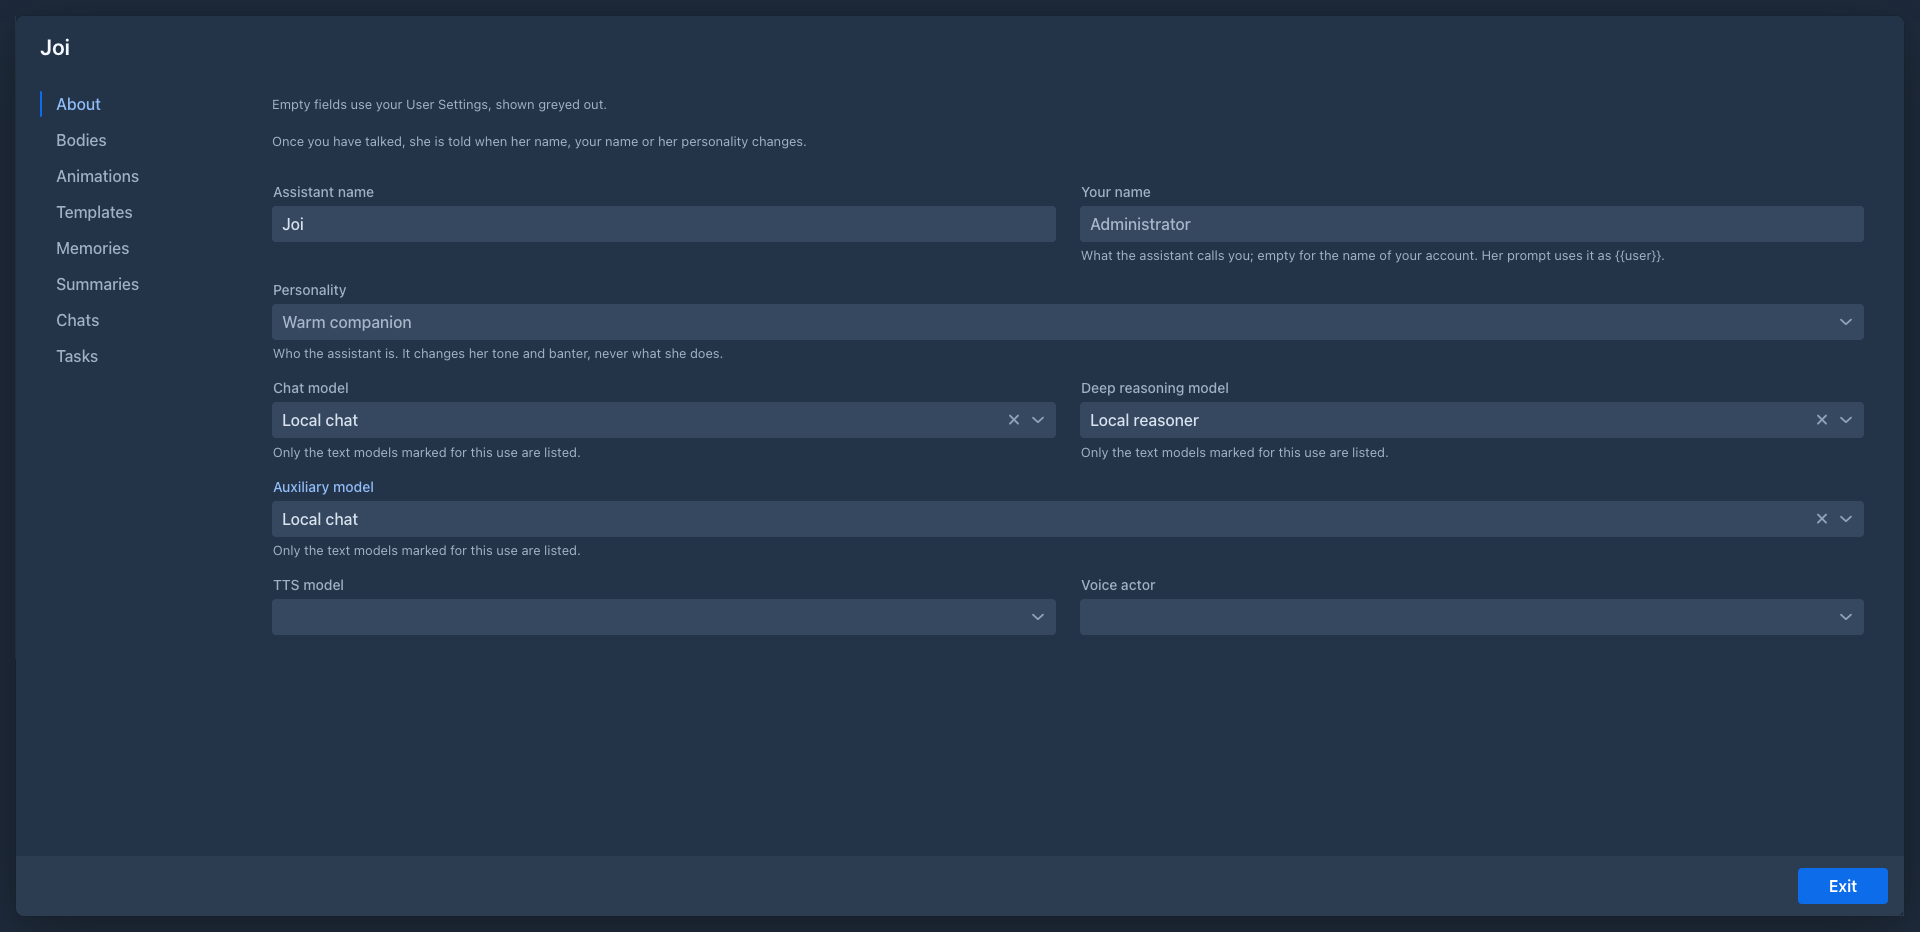
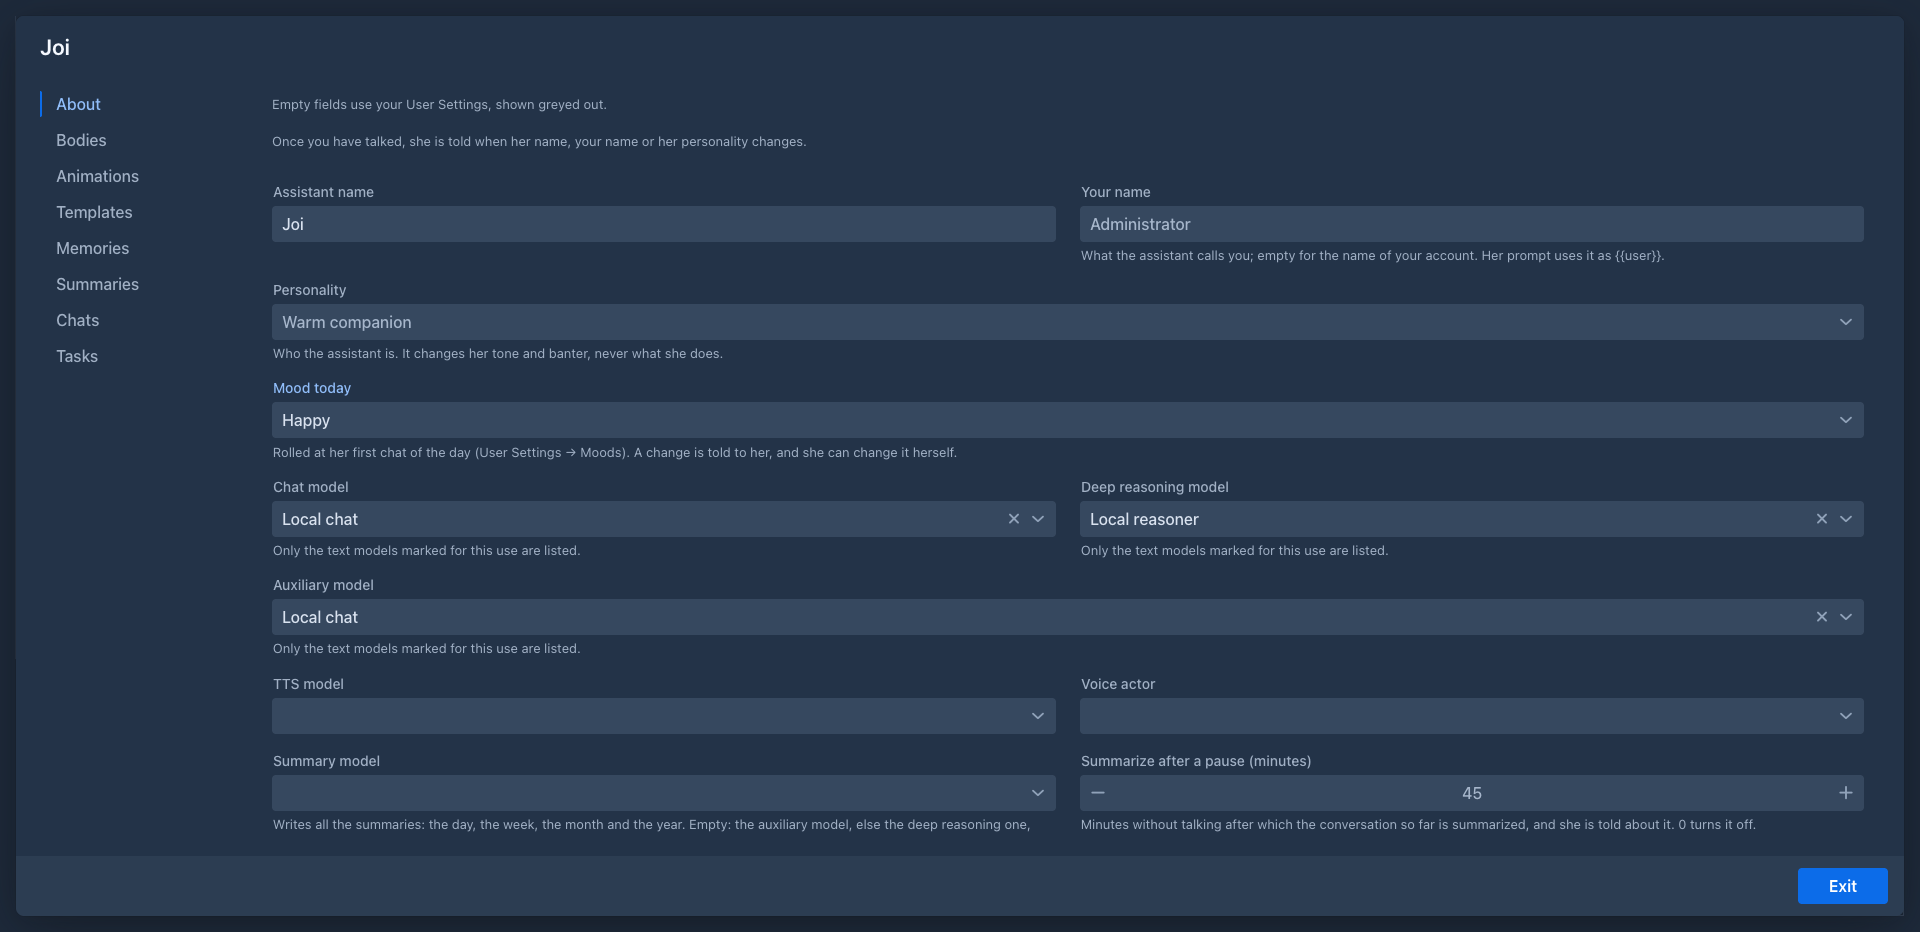
Screenshots of moods: the mood dialog with its face, Mood today in her About tab; the dialog's empty choices show the built-in face

diff --git a/joi-server/src/main/java/com/github/enerccio/joi/ui/dialogs/MoodDialog.java b/joi-server/src/main/java/com/github/enerccio/joi/ui/dialogs/MoodDialog.java
@@ -121,9 +121,11 @@ public class MoodDialog extends Dialog {
         expressions.add(MoodFace.NONE);
         expressions.addAll(AnimationFace.EXPRESSIONS);
         expressionSelect.setItems(expressions);
-        expressionSelect.setItemLabelGenerator(this::expressionText);
+        // the empty choice shows what the mood has without the user's setting
+        String builtInExpression = face.expression() == null ? MoodFace.NONE : face.expression();
+        expressionSelect.setItemLabelGenerator(v -> expressionText(v == null ? builtInExpression : v));
         expressionSelect.setEmptySelectionAllowed(true);
-        expressionSelect.setEmptySelectionCaption(expressionText(face.expression() == null ? MoodFace.NONE : face.expression()));
+        expressionSelect.setEmptySelectionCaption(expressionText(builtInExpression));
         expressionSelect.setValue(own.getExpression());
 
         strengthField = new NumberField(loc.getValue(J_L.LABEL_MOOD_EXPRESSION_STRENGTH));
@@ -140,9 +142,10 @@ public class MoodDialog extends Dialog {
         eyes.add(MoodFace.OPEN);
         eyes.addAll(MoodFace.EYES);
         eyesSelect.setItems(eyes);
-        eyesSelect.setItemLabelGenerator(this::eyesText);
+        String builtInEyes = face.eyes() == null ? MoodFace.OPEN : face.eyes();
+        eyesSelect.setItemLabelGenerator(v -> eyesText(v == null ? builtInEyes : v));
         eyesSelect.setEmptySelectionAllowed(true);
-        eyesSelect.setEmptySelectionCaption(eyesText(face.eyes() == null ? MoodFace.OPEN : face.eyes()));
+        eyesSelect.setEmptySelectionCaption(eyesText(builtInEyes));
         eyesSelect.setValue(own.getEyes());
 
         HorizontalLayout faceRow = new HorizontalLayout(expressionSelect, strengthField, eyesSelect);

diff --git a/screenshots/bin/list-images.py b/screenshots/bin/list-images.py
@@ -5,7 +5,7 @@ root = os.path.join(os.path.dirname(os.path.abspath(__file__)), '..')
 repo = os.path.join(root, '..')
 # the state a flow runs on: a chain flow starts from the step before it (bin/chain.txt), the shooting flows as bin/shoot-all.sh says
 state = {'shoot-workspace': 'any step from 01-admin (the last one)', 'node-first-start': '01-admin, a node that was never started',
-         'shoot-settings': 'any step from 07-body (the last one)', 'shoot-joi': 'any step from 07-body (the last one)',
+         'shoot-settings': 'any step from 07-body (the last one)', 'shoot-joi': 'any step from 07-body (the last one)', 'shoot-moods': 'any step from 07-body (the last one)',
          'shoot-model': 'any step from 07-body (the last one)', 'node-chat': 'step 09-conversation, the fake model, a node that was never started'}
 prev = '00-empty'
 for line in open(os.path.join(root, 'bin', 'chain.txt'), encoding='utf-8'):

diff --git a/screenshots/SCREENSHOTS.md b/screenshots/SCREENSHOTS.md
@@ -163,7 +163,7 @@ are taken, with the node's own commands, never the display.
 | `body-dialog.png` | `06-body` | step 06-appearance | manual/user/bodies/bodies.md, manual/user/bodies/outfits.md |
 | `clip-dialog.png` | `07-animations` | step 07-body | manual/user/animations/clips.md |
 | `first-start.png` | `00-first-start` | step 00-empty | manual/user/getting-started/first-start.md |
-| `joi-about.png` | `03-joi` | step 03-models | manual/user/getting-started/first-assistant.md |
+| `joi-about.png` | `shoot-moods` | any step from 07-body (the last one) | manual/user/getting-started/first-assistant.md |
 | `joi-animations-roles.png` | `07-animations` | step 07-body | manual/user/animations/animations.md |
 | `joi-bodies.png` | `06-body` | step 06-appearance | manual/user/bodies/bodies.md |
 | `joi-chats.png` | `08-conversation` | step 08-animations | manual/user/jois/chats.md |
@@ -176,8 +176,9 @@ are taken, with the node's own commands, never the display.
 | `model-spring-bones.png` | `shoot-model` | any step from 07-body (the last one) | - |
 | `model-toggles.png` | `shoot-model` | any step from 07-body (the last one) | manual/user/bodies/models.md |
 | `models-text.png` | `02-text-models` | step 02-saiki | manual/user/getting-started/first-assistant.md |
+| `mood-dialog.png` | `shoot-moods` | any step from 07-body (the last one) | manual/user/jois/persona.md |
 | `node-after-connect.png` | `node-first-start` | 01-admin, a node that was never started | - |
-| `node-approval.png` | `node-chat` | step 09-conversation, the fake model, a node that was never started | - |
+| `node-approval.png` | `node-chat` | step 09-conversation, the fake model, a node that was never started | manual/user/node/approvals.md |
 | `node-chat.png` | `node-chat` | step 09-conversation, the fake model, a node that was never started | manual/user/node/javafx.md |
 | `node-controls.png` | `node-chat` | step 09-conversation, the fake model, a node that was never started | manual/user/node/javafx.md |
 | `node-joi-menu.png` | `node-first-start` | 01-admin, a node that was never started | - |
@@ -187,6 +188,7 @@ are taken, with the node's own commands, never the display.
 | `outfit-light.png` | `06-body` | step 06-appearance | - |
 | `outfit-school-uniform.png` | `06-body` | step 06-appearance | manual/user/bodies/outfits.md |
 | `settings-general.png` | `04-user-settings` | step 04-joi | manual/user/settings.md |
+| `settings-moods.png` | `shoot-moods` | any step from 07-body (the last one) | manual/user/jois/persona.md |
 | `tab-animations.png` | `shoot-workspace` | any step from 01-admin (the last one) | - |
 | `tab-animations-library.png` | `07-animations` | step 07-body | manual/user/animations/animations.md, manual/user/animations/index.md |
 | `tab-bodies.png` | `shoot-workspace` | any step from 01-admin (the last one) | - |

diff --git a/manual/developer/ui.md b/manual/developer/ui.md
@@ -23,7 +23,7 @@ After the login `ui/workspace/JoiWorkspace` shows tabs of `WorkspacePart`s, with
 The assistant's dialog is `ui/dialogs/JoiDialog`, with a `JoiDialogPart` for each tab: `JoiAboutPart`, `JoiBodiesPart`,
 `JoiAnimationsPart`, `JoiTemplatesPart`, `JoiMemoriesPart`, `JoiChatsPart` (with the Summarize button), `JoiSummariesPart` and `JoiTasksPart`. A part stores
 its change with `JoiDialog.save(change)` (or `saveAbout(before, change)`), which applies it to her as stored now: her turns save her
-mood while the dialog is open. The About tab's Today's mood box is no part of the persona: it calls `ChatService.changeMood(joi, key, true)`. The settings of the
+mood while the dialog is open. The About tab's Mood today box is no part of the persona: it calls `ChatService.changeMood(joi, key, true)`. The settings of the
 summaries are one widget, `ui/widgets/SummaryFields`, shared by the assistant's About tab and the user's settings (the chain assistant → user → default). Other dialogs: `ModelDialog`, `BodyDialog`,
 `OutfitDialog`, `AnimationDialog`, `AnimationPackDialog`, `TtsModelDialog`, `JoiAIDialog`, `PersonalityDialog`, `MoodDialog` (with the mood's face: expression, strength and eyes).
 Panels: `ui/bodies` (`AppearancePanel`, `SpringBonesPanel`, `ToggleGroupsPanel`, `ModelViewer`, `ClipPreview`), `ui/tools`, `ui/access` (its list shows a `LOCAL` token as "This computer"; *Pair a phone* is `PairPhoneDialog`: a QR code (ZXing, a data-URI PNG) of `joi://pair?server=...&offer=...`, the server address editable because a phone cannot reach `localhost`, and a poll of the UI every 1.5 s that approves the device that came with the offer, as the user of the screen: `DeviceAuthorizationService.waitingForOffer` and `approve`).

diff --git a/manual/developer/nodes.md b/manual/developer/nodes.md
@@ -131,7 +131,7 @@ it on at the start. The layer has three inputs, the first that says something wi
 being played, from its `.joia`), **her state's eyes** (`eyes`: `{eyes: "auto"|"closed", ease}`) and **her mood** (`mood`: `{mood, expression, weight, eyes}`, the server's `mood` frame as it is: the mood's face is its own setting, so the page has no table
 and a mood of the user's works). The messages `eyes` and `mood` are kept and sent again to a page that opens
 later (`RendererServer.eyes` / `mood`); the node says them from the director: `AvatarPane.state` (sleeping: closed in 0.4 s, falling asleep: closed over 3 s,
-waking up: open over 1.5 s, else open) and the `mood` frame (`NodeSocket.Listener.mood`, sent after the manifest and on each change of her mood: the Today's mood box, her `set_mood`, the roll). The iOS app does the same (`ChatModel.state`, `RendererBridge.setEyes` / `setMood`).
+waking up: open over 1.5 s, else open) and the `mood` frame (`NodeSocket.Listener.mood`, sent after the manifest and on each change of her mood: the Mood today box, her `set_mood`, the roll). The iOS app does the same (`ChatModel.state`, `RendererBridge.setEyes` / `setMood`).
 
 What the layer does: the lids go to the target (closed 1, half 0.55) with an exponential ease; while the eyes are `auto` a blink (0.2 s, one in five a double) comes every 2 to 6 s on the
 `blink` expression; the emotion expressions (`happy`, `angry`, `sad`, `relaxed`, `surprised`) fade to their weights over about a second (three-vrm applies the models' own

diff --git a/manual/user/jois/persona.md b/manual/user/jois/persona.md
@@ -38,7 +38,7 @@ first chat after the day starts (**New day starts at** in User Settings, 04:00 b
 stays for the day. The mood's text comes into her prompt as it sounds in her personality, and her voice picks the actor's voice
 for that mood.
 
-You can also change it yourself during the day: in the Joi dialog (**About → Today's mood**). She is told about it in her next
+You can also change it yourself during the day: in the Joi dialog (**About → Mood today**). She is told about it in her next
 turn, and her face follows at once. She can change it herself too, when the conversation moves her (a joke makes her playful):
 that stays a note in the conversation, and she is not told about it again.
 
@@ -54,6 +54,8 @@ You manage both in **User Settings → Personalities** and **Moods**:
 - A personality can have a text under **When she is asked to change a part of her body**. Empty: the change is made and she
   only reacts. With a text she decides whether to allow it, and says why if she refuses ("If the user begs, consider
   allowing it."). It covers the look of her body only, never a tool, an approval, a task or help.
+
+![The dialog of a mood, with its face](../../images/mood-dialog.png)
 
 ## Templates: every prompt can be changed
 

diff --git a/DESIGN.md b/DESIGN.md
@@ -1122,7 +1122,7 @@ UI — nothing is deleted):
 - **Built:** the face of a mood is part of the `Mood` (`MoodFace`: an expression, its weight and the eyes; the built-in ten have one, the
   user sets it per mood in User Settings → Moods, **none** turns it off, a mood of the user's own has none until it is given one:
   `MoodSetting.expression / expressionWeight / eyes`). `ChatService.changeMood(joi, key, byUser)` is the one place a mood changes: it saves it, writes a
-  note in the conversation, pushes it to the nodes (the `mood` frame) and, when the **user** changed it (the Today's mood box of the Joi dialog) and she has
+  note in the conversation, pushes it to the nodes (the `mood` frame) and, when the **user** changed it (the Mood today box of the Joi dialog) and she has
   chatted, queues the event `mood.changed` (told to her in her next turn, merged along the chain from → to). `set_mood` (`MoodTools`, offered to every
   turn, the enum is the moods' names) is her own choice: no consent, no event.
 - Open: whether the conversation should tilt the mood or only the UI and Joi's own tool change it.

diff --git a/screenshots/IMAGES-TODO.md b/screenshots/IMAGES-TODO.md
@@ -12,7 +12,8 @@ Status: `[ ]` to take, `[x]` taken and published, `[-]` dropped (why).
 |---|---|---|---|---|
 | [x] | `settings-prompts` | settings.md | `shoot-settings` | User Settings, Prompts tab |
 | [x] | `settings-personalities` | settings.md, jois/persona.md | `shoot-settings` | Personalities tab with the built-in ones |
-| [x] | `settings-moods` | jois/persona.md | `shoot-settings` | Moods tab |
+| [x] | `settings-moods` | jois/persona.md | `shoot-settings`, `shoot-moods` | Moods tab |
+| [x] | `mood-dialog` | jois/persona.md | `shoot-moods` | the dialog of a built-in mood with its face: expression, strength, eyes |
 | [x] | `settings-access` | access.md | `shoot-settings` | Access tab |
 | [x] | `settings-tools` | tools/index.md | `shoot-settings` | Tools tab: permissions and the web search panel |
 | [x] | `admin-gpus` | administration/index.md | `shoot-settings` | Administration, GPUs |

diff --git a/verification.md b/verification.md
@@ -74,3 +74,5 @@ Optional. A commit that has no row here is simply not recorded.
 | `532f872` | `claude-sonnet-5-5` |
 | `714077a` | `claude-sonnet-5-5` |
 | `e8faf68` | `claude-sonnet-5-5` |
+| `3701cea` | `claude-sonnet-5-5` |
+| `a4abc50` | `claude-sonnet-5-5` |
